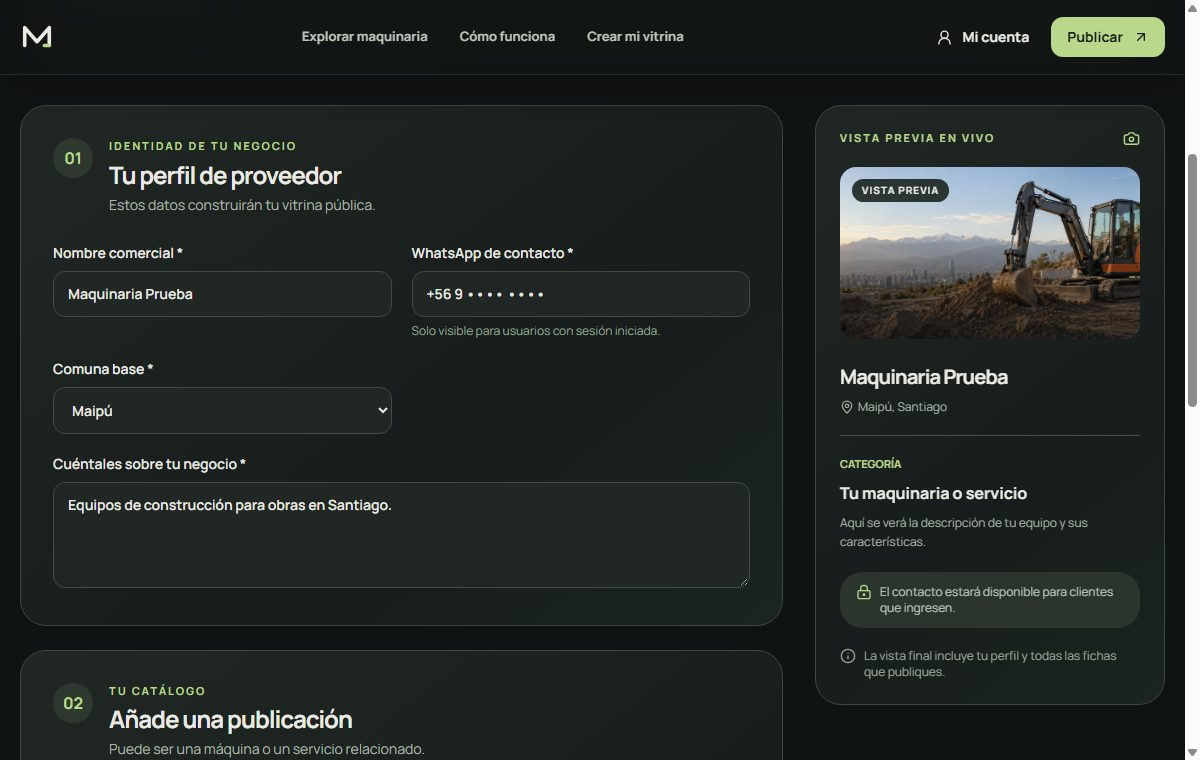
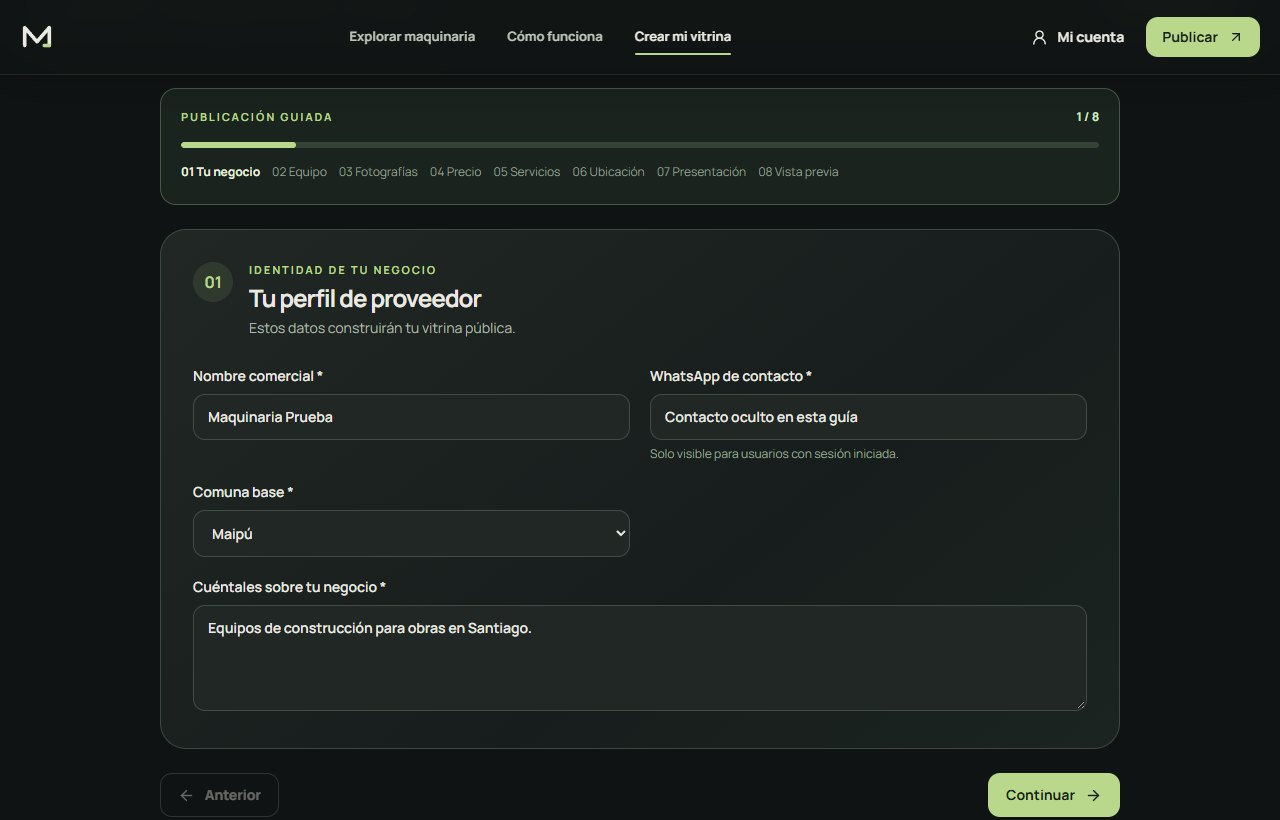
Actualizar guía con capturas del producto real

diff --git a/README.md b/README.md
@@ -1,3 +1,27 @@
+# Maquinal
+
+Marketplace de arriendo de maquinaria para Santiago de Chile. El código se abre directamente en Visual Studio Code desde esta carpeta.
+
+## Producto local
+
+- `npm install` instala las dependencias.
+- `npm run dev` abre el sitio local en `http://localhost:5173`.
+- `npm run format:check`, `npm run lint`, `npx tsc --noEmit`, `node --experimental-strip-types --test tests/*.test.ts` y `npm run build` comprueban la entrega.
+- `/maquinaria` es el catálogo canónico; los filtros viajan en la URL.
+- `/maquinaria/:slug` muestra tanto fichas reales como ejemplos claramente identificados.
+- `/crear-vitrina` permite probar la presentación antes de iniciar sesión; `/publicar` guía el registro y conserva un borrador local.
+- Las consultas reales requieren sesión y llevan a un mensaje revisable para WhatsApp. Maquinal no administra el arriendo ni el pago.
+
+Los ejemplos ficticios viven en `lib/demo-fixtures.ts`; sus imágenes están en `public/demo/`. No representan inventario disponible. La ruta `/__demo` es un laboratorio solo en desarrollo. Los favoritos y las búsquedas guardadas se almacenan en el navegador y todavía no se sincronizan. Las alertas de nuevas coincidencias y la ubicación exacta de proveedores reales requieren desarrollo adicional antes de ofrecerse.
+
+El mapa de ubicación exacta solo aparece en un ejemplo ficticio y se carga al solicitarlo; los proveedores reales pueden indicar comuna o sector aproximado. Antes de usar mapas de forma comercial a escala, debe elegirse un servicio con capacidad y condiciones adecuadas. Véase la [política de mosaicos de OpenStreetMap](https://operations.osmfoundation.org/policies/tiles/).
+
+## Base técnica
+
+El proyecto mantiene el stack Vinext, Cloudflare D1 y R2 de la plantilla original. Las migraciones SQL nuevas están en `drizzle/` y deben aplicarse en orden en cada entorno. No se ha publicado esta rama.
+
+---
+
 # vinext-starter
 
 A clean full-stack starter running on [vinext](https://github.com/cloudflare/vinext), with optional Cloudflare D1 and Drizzle support.
